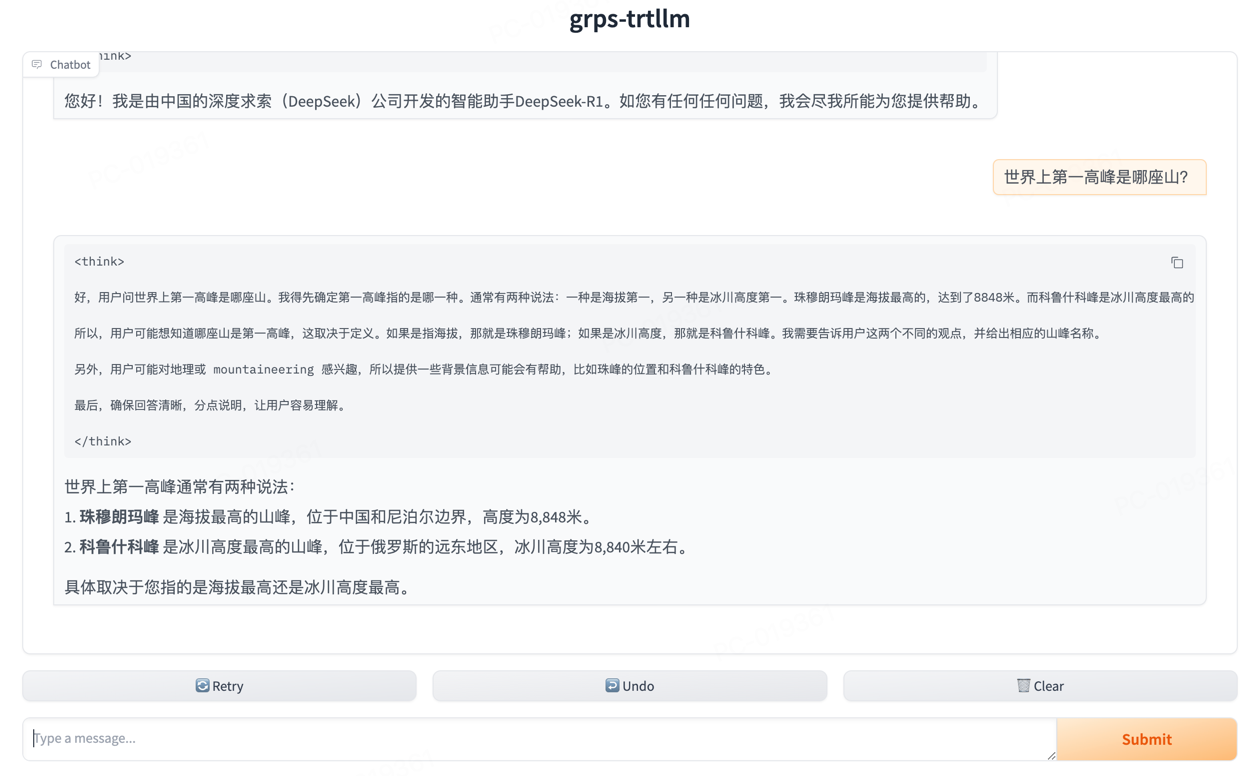
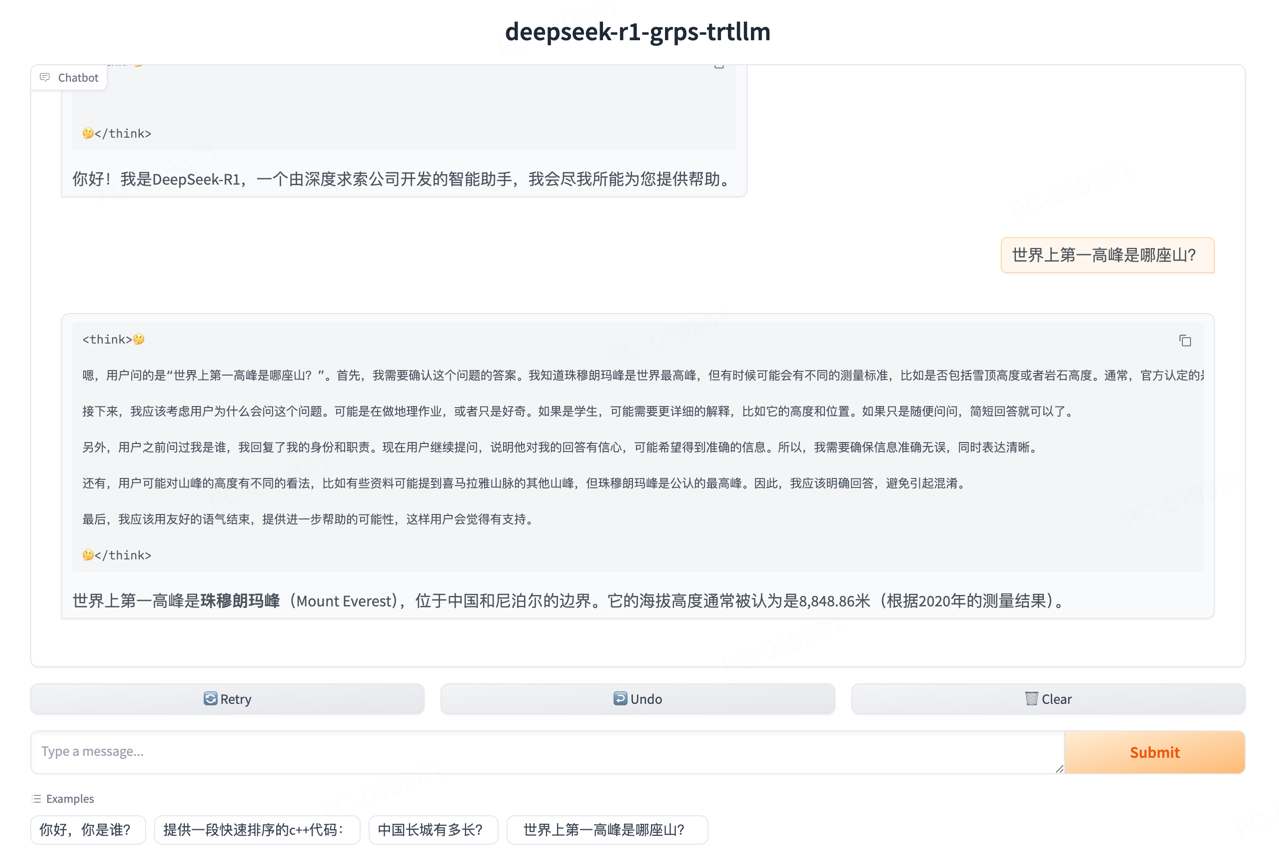
FIX: Fix gradio app bug for deepseek-r1 multi-round chat.

diff --git a/tools/gradio/llm_app.py b/tools/gradio/llm_app.py
@@ -20,7 +20,7 @@ if len(sys.argv) < 3:
     exit(1)
 
 app_type = sys.argv[1]
-if app_type not in ['llm', 'internvl2', 'qwenvl', 'qwen2vl']:
+if app_type not in ['llm', 'internvl2', 'qwenvl', 'qwen2vl', 'deepseek-r1']:
     print(
         '`app_type` only support `llm`(all text llm) or `internvl2`(multi-modal) or `qwenvl`(multi-modal) or `qwen2vl`(multi-modal).')
     exit(1)
@@ -106,8 +106,58 @@ def llm_fn(message, history):
         for msg in res:
             # print('msg:', msg)
             if msg.choices[0].delta.content is not None:
-                content += msg.choices[0].delta.content.replace('<think>', '```\n<think>\n').replace('</think>',
-                                                                                                     '\n</think>\n```')
+                content += msg.choices[0].delta.content
+                yield content
+    except openai.APIError as e:
+        print('error:', e)
+        yield 'error: ' + e.message
+    except Exception as e:
+        print('error:', e)
+        yield 'error: ' + str(e)
+
+
+def deepseek_llm_fn(message, history):
+    # print('message:', message)
+    # print('history:', history)
+
+    # History messages.
+    messages = []
+    for his in history:
+        messages.append({
+            "role": his['role'],
+            "content": his['content'].replace('```\n<think>🤔\n', '<think>').replace('\n🤔</think>\n```',
+                                                                                    '</think>')
+        })
+
+    # New message.
+    new_message = {
+        "role": "user",
+        "content": message
+    }
+    messages.append(new_message)
+    # print('messages:', messages)
+
+    # Request to openai llm server.
+    client = openai.Client(
+        api_key="cannot be empty",
+        base_url=f"http://{llm_server}/v1"
+    )
+
+    res = client.chat.completions.create(
+        model="",
+        messages=messages,
+        stream=True,
+        max_tokens=4096
+    )
+    # print('res: ', res)
+
+    content = ''
+    try:
+        for msg in res:
+            # print('msg:', msg)
+            if msg.choices[0].delta.content is not None:
+                content += msg.choices[0].delta.content.replace('<think>', '```\n<think>🤔\n').replace('</think>',
+                                                                                                      '\n🤔</think>\n```')
                 yield content
     except openai.APIError as e:
         print('error:', e)
@@ -555,7 +605,15 @@ elif app_type == 'qwen2vl':
     ],
                             title="qwen2vl-grps-trtllm",
                             multimodal=True)
+elif app_type == 'deepseek-r1':
+    demo = gr.ChatInterface(concurrency_limit=32, fn=deepseek_llm_fn, type="messages", examples=[
+        "你好，你是谁？",
+        "提供一段快速排序的c++代码：",
+        "中国长城有多长？",
+        "世界上第一高峰是哪座山？",
+    ], title="deepseek-r1-grps-trtllm", multimodal=False)
 else:
-    print('`app_type` only support `llm`(all text llm) or `internvl2`(multi-modal) or `qwenvl`(multi-modal).')
+    print('`app_type` only support `llm`(text llm) or `internvl2`(multi-modal) or `qwenvl`(multi-modal), '
+          '`qwen2vl`(multi-modal), `deepseek-r1`(deepseek-r1 text llm).')
     exit(1)
 demo.launch(server_name='0.0.0.0', server_port=SERVER_PORT)

diff --git a/docs/deepseek-r1-distill.md b/docs/deepseek-r1-distill.md
@@ -228,8 +228,8 @@ ChatCompletion(id='chatcmpl-7', choices=[Choice(finish_reason='stop', index=0, l
 # 安装gradio
 pip install -r tools/gradio/requirements.txt
 
-# 启动纯文本聊天界面，llm代表纯文本聊天，0.0.0.0:9997表示llm后端服务地址
-python3 tools/gradio/llm_app.py llm 0.0.0.0:9997
+# 启动纯文本聊天界面，deepseek-r1支持COT过程的纯文本聊天，0.0.0.0:9997表示llm后端服务地址
+python3 tools/gradio/llm_app.py deepseek-r1 0.0.0.0:9997
 ```
 
 ## 关闭服务

diff --git a/docs/gradio.md b/docs/gradio.md
@@ -17,6 +17,9 @@ python3 tools/gradio/llm_app.py qwenvl 0.0.0.0:9997
 
 # 启动多模态聊天界面，使用qwen2vl多模态模型
 python3 tools/gradio/llm_app.py qwen2vl 0.0.0.0:9997
+
+# 启动纯文本聊天界面，deepseek-r1支持COT过程的纯文本聊天，0.0.0.0:9997表示llm后端服务地址
+python3 tools/gradio/llm_app.py deepseek-r1 0.0.0.0:9997
 ```
 
 启动后日志会显示服务端口号，默认为7860如下：
